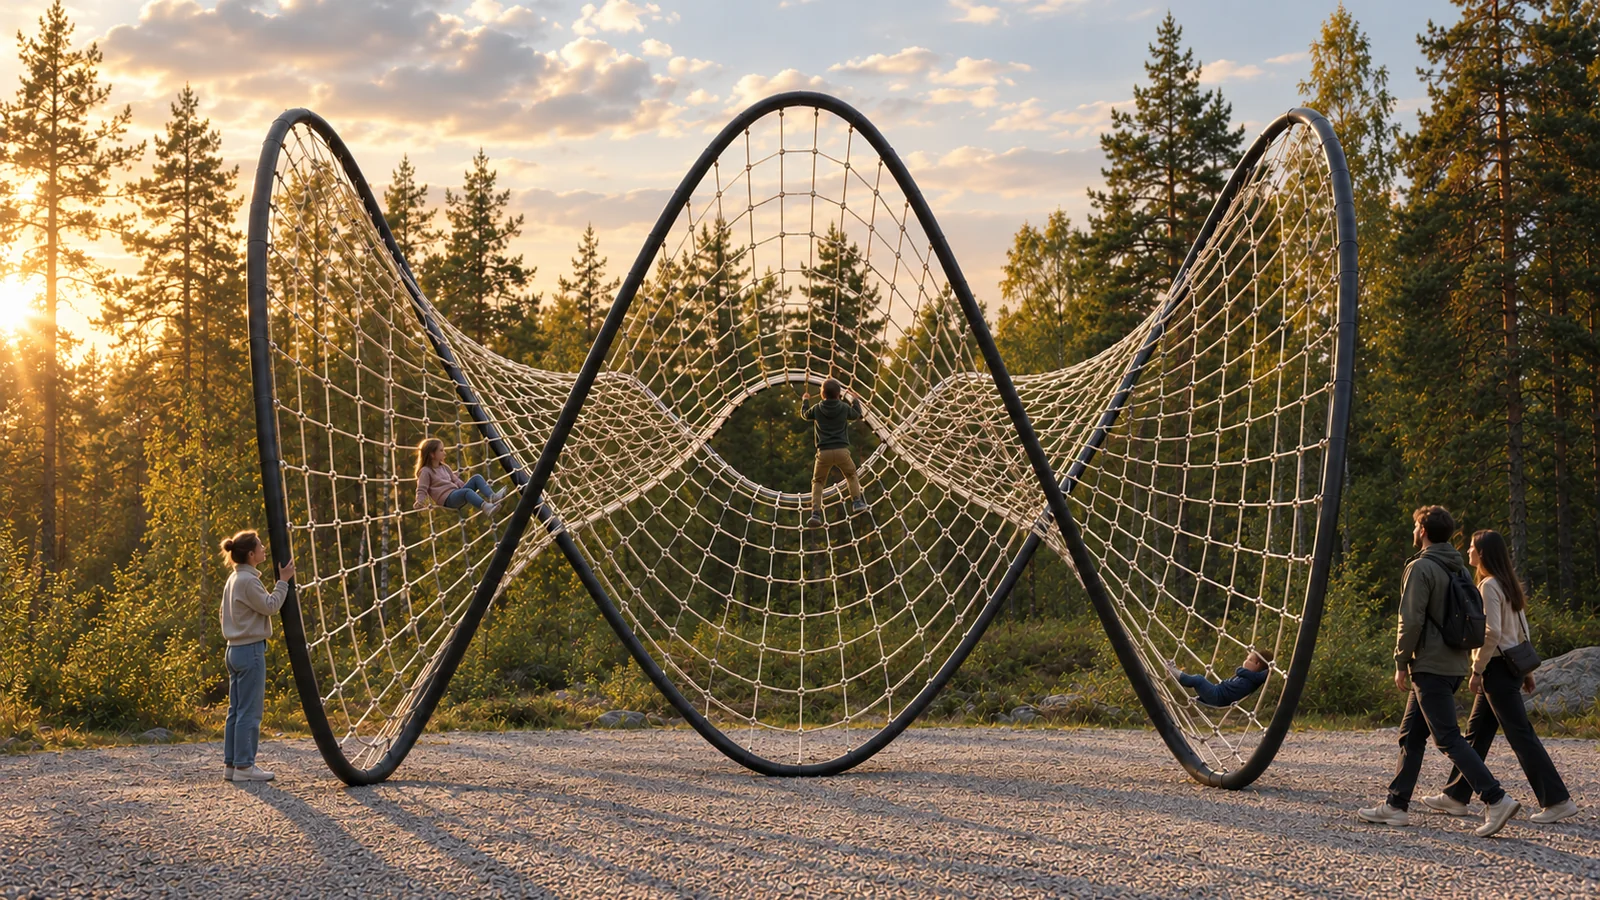
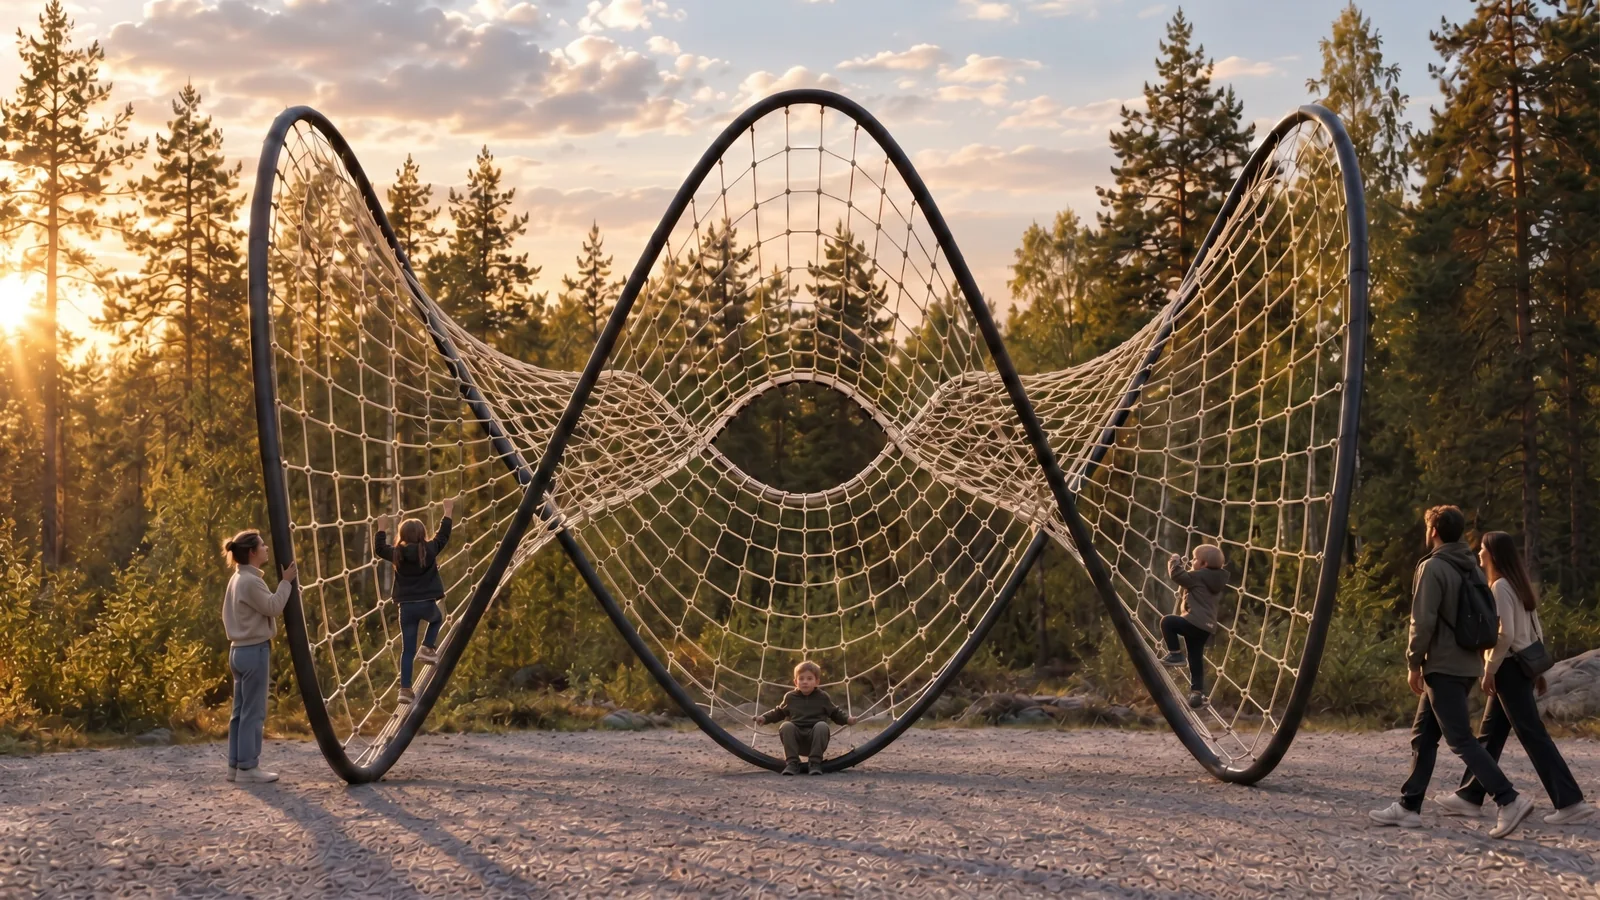
Update site 2026-10-16

diff --git a/index.html b/index.html
@@ -2,7 +2,7 @@
 <html lang="en">
 <head>
 <meta charset="utf-8">
-<meta http-equiv="Content-Security-Policy" content="default-src 'self'; script-src 'self' 'sha256-2aXUAyr4y5HwhHmZkiL9GxlWPjC31j/WITiZgkK8rwM=' 'sha256-Pou2OAmGK2C6S8TLm9mEenH+t3b9fo090o6+uJaSkNo=' 'sha256-GBSNzbRYvDDGp3pbfBfW1qwvGaLkI736pXIuO3c3vkY=' 'sha256-wEW5n0UW+ywzaoX7O23GKBlN/8kKc/R8pLTrfVr4Zg4='; style-src 'self' 'unsafe-inline'; font-src 'self'; img-src 'self' data: blob:; media-src 'self' blob:; connect-src 'self'; worker-src 'self' blob:; object-src 'none'; base-uri 'self'; form-action 'none'">
+<meta http-equiv="Content-Security-Policy" content="default-src 'self'; script-src 'self' 'sha256-2aXUAyr4y5HwhHmZkiL9GxlWPjC31j/WITiZgkK8rwM=' 'sha256-Pou2OAmGK2C6S8TLm9mEenH+t3b9fo090o6+uJaSkNo=' 'sha256-GBSNzbRYvDDGp3pbfBfW1qwvGaLkI736pXIuO3c3vkY=' 'sha256-r02SFzHtAYCYd34jVALJTGtZAzKVjKXyT3m4JNcm4BY='; style-src 'self' 'unsafe-inline'; font-src 'self'; img-src 'self' data: blob:; media-src 'self' blob:; connect-src 'self'; worker-src 'self' blob:; object-src 'none'; base-uri 'self'; form-action 'none'">
 <meta name="referrer" content="strict-origin-when-cross-origin">
 <meta name="viewport" content="width=device-width, initial-scale=1, viewport-fit=cover">
 <title>Raffaele Errichiello</title>
@@ -1731,7 +1731,7 @@ html:not(.ed-on) [data-ed-off]{display:none!important}
 
       <p class="meta">The third version of the thesis shell, in steel and rope, in the workshop of Umeå School of Architecture, June to September 2022.</p>
       <div class="split rev" style="margin-top:clamp(24px,3vw,40px)">
-        <figure class="cycle" data-cycle data-every="3600" aria-label="MK3 at full scale, a rendering made with ChatGPT, and the whiteboard of its parts and joints, changing every few seconds"><div class="tile r169"><img src="assets/img/x/mk-render.webp" alt="Rendering made with ChatGPT: MK3 at full scale in a forest clearing at sunset, one closed wavy loop of black steel tube with a knotted rope net stretched inside it as a saddle, a girl sitting in the net on the left, a boy climbing it in the middle, a child lying back in it on the right, a parent holding the tube and a couple walking past" loading="lazy" decoding="async" width="1600" height="900"><img src="assets/img/x/mk-board-front.webp" alt="The workshop whiteboard seen from the front: the two pipe types, the joints, the lengths of rope and the shell sketched with people for scale" loading="lazy" decoding="async" width="1600" height="900"></div><figcaption class="cap">MK3 at full scale, a rendering made with AI (ChatGPT), and the whiteboard of its parts.</figcaption></figure>
+        <figure class="cycle" data-cycle data-every="3600" aria-label="MK3 at full scale, a rendering made with ChatGPT and Gemini, and the whiteboard of its parts and joints, changing every few seconds"><div class="tile r169"><img src="assets/img/x/mk-render.webp" alt="Rendering made with ChatGPT and Gemini: MK3 at full scale in a forest clearing at sunset, one closed wavy loop of black steel tube with a knotted rope net stretched inside it as a saddle, two children climbing the net on either side, a boy sitting at the bottom of the middle loop, a parent holding the tube and a couple walking past" loading="lazy" decoding="async" width="1600" height="900"><img src="assets/img/x/mk-board-front.webp" alt="The workshop whiteboard seen from the front: the two pipe types, the joints, the lengths of rope and the shell sketched with people for scale" loading="lazy" decoding="async" width="1600" height="900"></div><figcaption class="cap">MK3 at full scale, a rendering made with AI (ChatGPT and Gemini), and the whiteboard of its parts.</figcaption></figure>
         <div class="side">
           <div class="body">
             <p>The thesis shell, rebuilt in steel and rope. Steel tubes were bent on a plywood jig and joined with clamps, and nets of rope were stretched between them. I set out the saddle surfaces in Kangaroo, a physics solver for Grasshopper, and bent the tubes to match the simulation.</p>
@@ -2313,7 +2313,7 @@ html:not(.ed-on) [data-ed-off]{display:none!important}
     <p class="addr">Material Practices Lab, Umeå School of Architecture, Umeå University, Sweden.</p>
     <footer class="foot" tabindex="0" aria-label="Photographs and credits, expands on hover or focus">
       <div class="foot-bar"><p>© 2026 Raffaele Errichiello</p><p class="foot-k">Photographs and credits</p></div>
-      <div class="foot-more"><div><p>Photographs and footage by Raffaele Errichiello unless credited. haMMMocks at night by Atraz &amp; Emilia Photography. Winter Garden opening, aerial and inflation photographs from the Laboratory of Planetary Diplomacy, snow on the dome by Robin Duran. Pallet Parliament from above by Kent Brodin. D2 turning and the sitting video from the Material Practices Lab. Instagram stories by the accounts named on each. Every image or film made with AI is marked as such in its caption: Midjourney for early renders; Gemini for the AURORA renderings and the coloured drawings of the thesis; ChatGPT for the full-scale MK3 rendering; Veo and Google Flow for the AURORA and haMMMocks films. Behind the page, the footage is stained with colour combinations from Sanzo Wada's A Dictionary of Color Combinations, one per chapter, and the mycelium grows by diffusion-limited aggregation, after Michael Fogleman's dlaf. The glass is drawn live in WebGL.</p></div></div>
+      <div class="foot-more"><div><p>Photographs and footage by Raffaele Errichiello unless credited. haMMMocks at night by Atraz &amp; Emilia Photography. Winter Garden opening, aerial and inflation photographs from the Laboratory of Planetary Diplomacy, snow on the dome by Robin Duran. Pallet Parliament from above by Kent Brodin. D2 turning and the sitting video from the Material Practices Lab. Instagram stories by the accounts named on each. Every image or film made with AI is marked as such in its caption: Midjourney for early renders; Gemini for the AURORA renderings and the coloured drawings of the thesis; ChatGPT and Gemini for the full-scale MK3 rendering; Veo and Google Flow for the AURORA and haMMMocks films. Behind the page, the footage is stained with colour combinations from Sanzo Wada's A Dictionary of Color Combinations, one per chapter, and the mycelium grows by diffusion-limited aggregation, after Michael Fogleman's dlaf. The glass is drawn live in WebGL.</p></div></div>
     </footer>
   </div>
 </section>
@@ -4782,7 +4782,7 @@ function t(t,e,i){return Math.max(t,Math.min(e,i))}var e=class{isRunning=!1;valu
   initPosters(); initVideos(); initScrub(); initLightbox(); initCopy(); initPeek();
 })();
 
-(function(){var B='f2b1c6e4ca2f';function check(){try{fetch('version.txt?t='+Date.now(),{cache:'no-store'}).then(function(r){return r.ok?r.text():null}).then(function(v){v=v&&v.trim();if(!v||v===B)return;var k='reloaded-for';try{if(sessionStorage.getItem(k)===v)return;sessionStorage.setItem(k,v)}catch(e){}location.reload()}).catch(function(){})}catch(e){}}check();addEventListener('pageshow',function(e){if(e.persisted)check()});document.addEventListener('visibilitychange',function(){if(!document.hidden)check()})})();
+(function(){var B='2dee1ccf227b';function check(){try{fetch('version.txt?t='+Date.now(),{cache:'no-store'}).then(function(r){return r.ok?r.text():null}).then(function(v){v=v&&v.trim();if(!v||v===B)return;var k='reloaded-for';try{if(sessionStorage.getItem(k)===v)return;sessionStorage.setItem(k,v)}catch(e){}location.reload()}).catch(function(){})}catch(e){}}check();addEventListener('pageshow',function(e){if(e.persisted)check()});document.addEventListener('visibilitychange',function(){if(!document.hidden)check()})})();
 </script>
 </body>
 </html>
